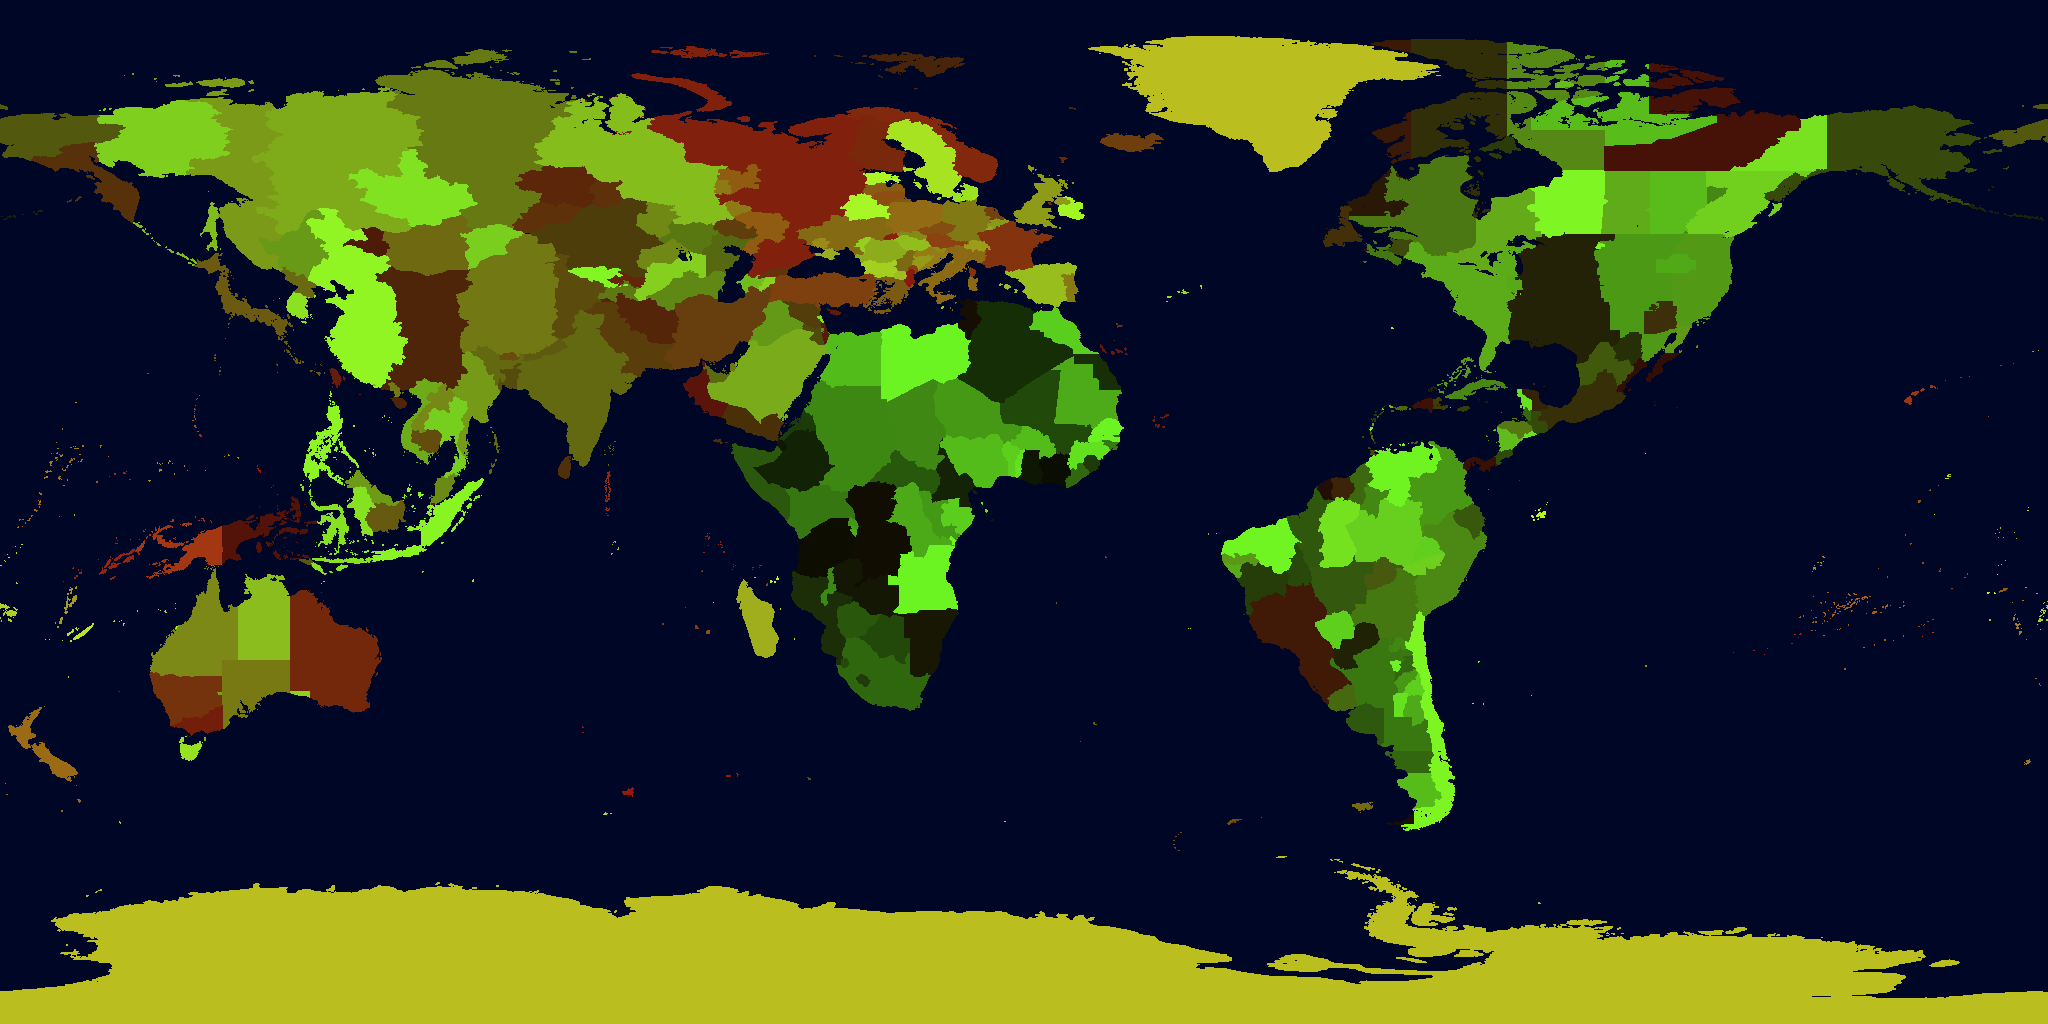
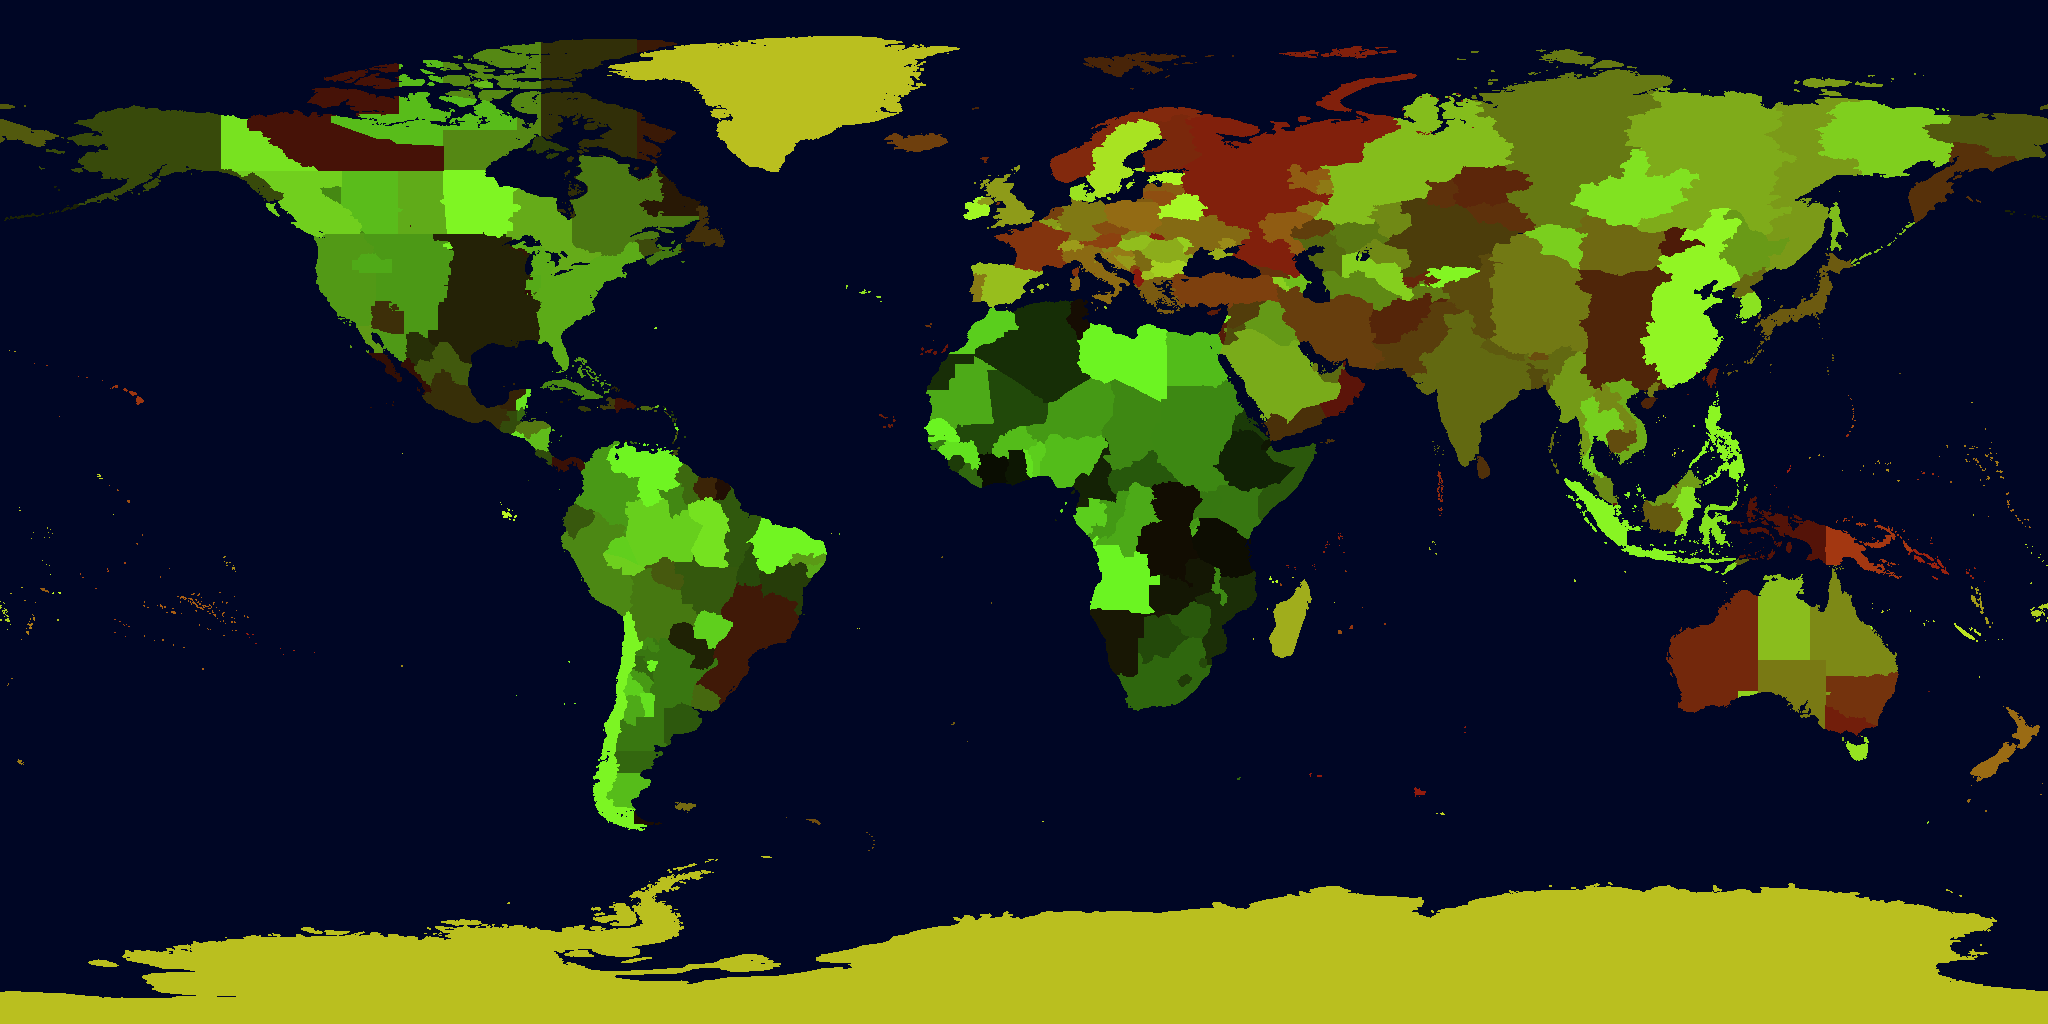
Flip image horizontally in sphere view by negative scaling on X axis.

diff --git a/SM3DAR_Common/Views/SphereView.mm b/SM3DAR_Common/Views/SphereView.mm
@@ -20,6 +20,9 @@
   if (texture == nil && [textureName length] > 0) {
     NSLog(@"Loading texture named %@", textureName);
     self.textureImage = [UIImage imageNamed:textureName];
+    
+    // TODO: flip horizontal
+    
     self.texture = [[Texture newTextureFromImage:textureImage.CGImage] autorelease];
   }
   
@@ -31,8 +34,8 @@
 }
 
 - (void) displayGeometry {
-  CGFloat scalar = 500.0f;
-  glScalef (scalar, scalar, scalar);
+  CGFloat scalar = 100.0f;
+  glScalef (-scalar, scalar, scalar);
   glRotatef (180, 1, 0, 0);
   
   //[self updateTexture];
